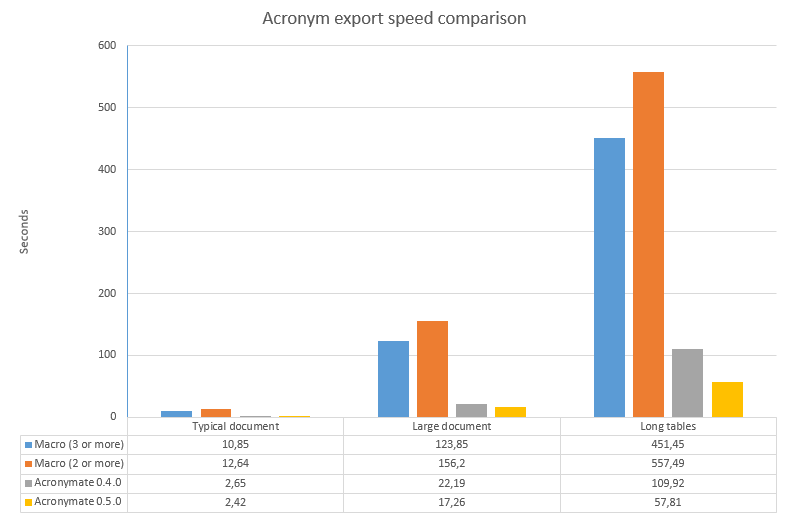
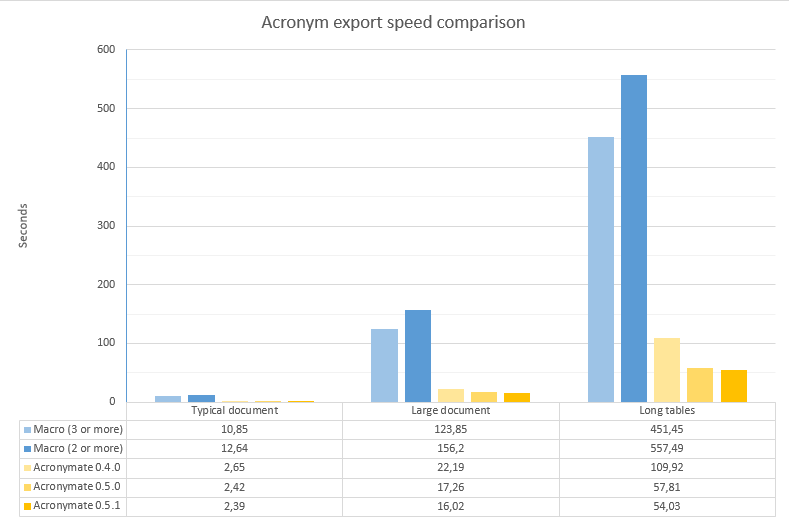
Updated docs

diff --git a/README.md b/README.md
@@ -4,9 +4,9 @@ Helpful script to quickly extract acronyms from word documents and aid in the ge
 ## What is its purpose?
 This script was created after the tedious task of reviewing several documents at work and having to extract and define the same acronyms in all of them.
 
-The script extracts the acronyms from any *.docx* file. It analyzes all paragraphs and tables, including those with "Track Changes" enabled. Acronymate also provides a "database" for definitions to ensure consistency. Once a new acronym is added its definition will appear automatically the next time it is found in another document. This way no time is wasted in manually searching everytime how exactly that acronym was defined. Finally, it generates an acronym table in *.docx* format that eases copying it to the final document.
+The script extracts the acronyms from any *.docx* file, searching in all paragraphs and tables, including those with "Track Changes" enabled. Acronymate also provides a "database" for definitions to ensure consistency. Once a new acronym is added its definition will appear automatically the next time it is found in another document. This way no time is wasted in manually searching everytime how exactly that acronym was defined. Finally, it generates an acronym table in *.docx* format that eases copying it to the final document.
 
-It also detects and process an already existing acronym table to import new definitions and avoid detecting those listed acronyms as needed if they only appear in that table.
+It also detects and process an already existing acronym table to skip these false positives (if they appear on the table but were later removed in the document body) and to import new definitions.
 
 The script is thought to be used with colleagues keeping the database file in a shared folder. Some degree of protection is added to prevent overwriting others changes.
 
@@ -35,12 +35,11 @@ A timer starts as the macro is launched (Check ["Word integration"](#word-integr
 The macro was executed both configured to detect an acronym as a word consisting of 3 or more uppercase letters and 2 or more uppercase letters. Acronymate by default is configured for 2 or more uppercase letters. 
 The resulting time on the chart is the average of 3 runs, in seconds.
 
-![Benchmark results](other/Benchmark_Results.png)
+![Benchmark results](other/Benchmark_Results_only_last_version.png)
 
-Clearly the script processes the documents orders of magnitude faster than a plain word macro. The speed boost is very noticeable for long documents.
-Also, the processing time was almost halved after the v0.5.0 release.
+The script clearly processes the documents orders of magnitude faster than a plain word macro. The speed boost is very noticeable for long documents.
 
-Finally, regarding accuracy, all the acronyms detected by the macro were detected by Acronymate.
+Regarding accuracy, all the acronyms detected by the macro were detected by Acronymate.
 
 # How to use
 Launch *acronymateCmd.py*, or the precompiled executable for Windows, and follow the instructions of the user interface.
